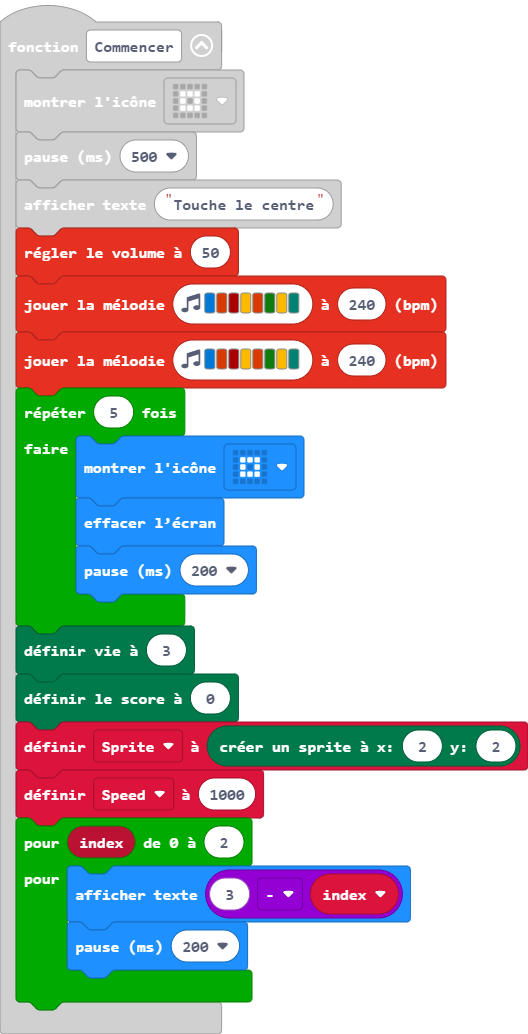
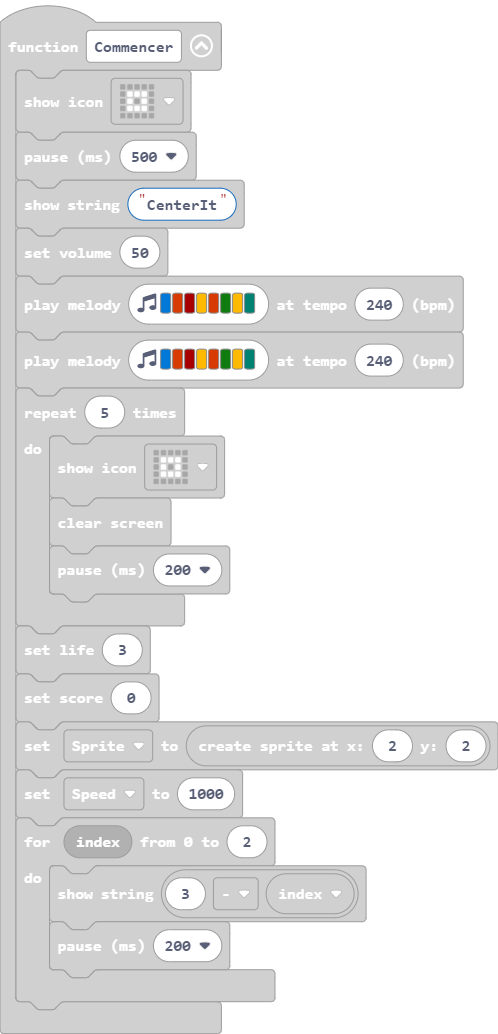
Changé le marquee

diff --git a/main.ts b/main.ts
@@ -1,7 +1,7 @@
 function Commencer () {
     basic.showIcon(IconNames.SmallSquare)
     basic.pause(500)
-    basic.showString("Touche le centre")
+    basic.showString("CenterIt")
     music.setVolume(50)
     music.playMelody("E B C5 A B G A F ", 240)
     music.playMelody("E B C5 A B G A F ", 240)
